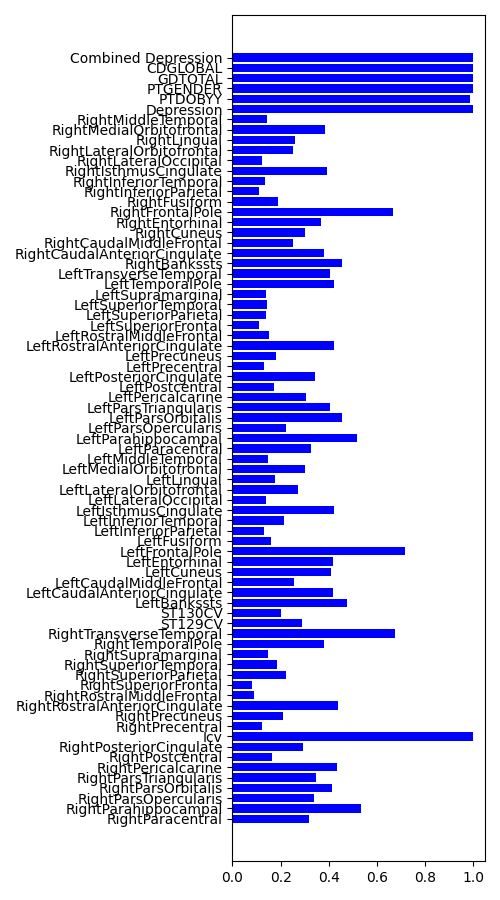
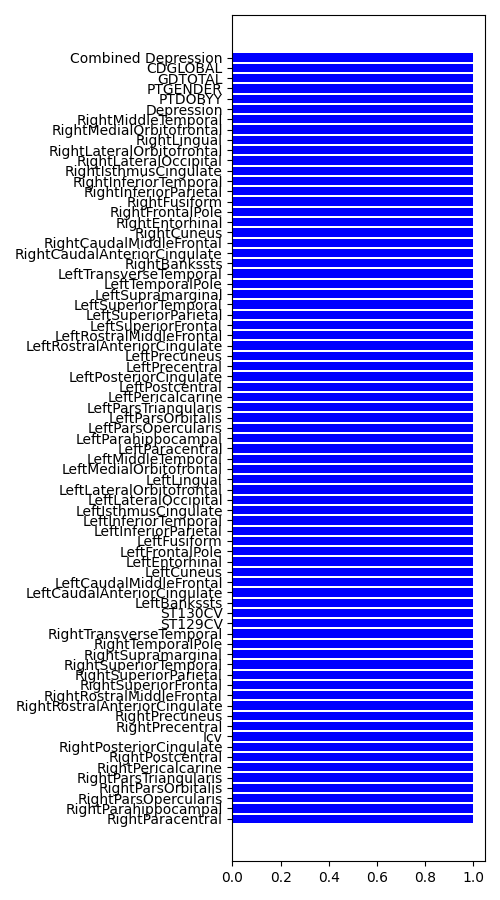
changes

Changed region(s): [[0.51, 0.1244, 0.96, 0.9333]]

diff --git a/evaluate/utility.py b/evaluate/utility.py
@@ -22,7 +22,8 @@ def evaluate_utility(table_type, data, synthetic_data, identifier_column, predic
 
     discrete_columns = []
     for col, meta in metadata.columns.items():
-        if ('sdtype' in meta and meta['sdtype'] == 'categorical') or (data[col].fillna(9999) % 1 == 0).all():
+        #if ('sdtype' in meta and meta['sdtype'] == 'categorical') or (data[col].fillna(9999) % 1 == 0).all():
+        if ('sdtype' in meta and meta['sdtype'] == 'categorical'):
             discrete_columns.append(col)
     data_columns = data.columns
 
@@ -33,6 +34,7 @@ def evaluate_utility(table_type, data, synthetic_data, identifier_column, predic
             similarity_score = StatisticSimilarity.compute(real_data=data[column], synthetic_data=synthetic_data[column], statistic='mean')
             similarity_scores.append(similarity_score)
 
+    """
     #== Correlation ==#
     #print()
     #print("[SynthOpt] calculating correlation scores (this may take a while)")
@@ -46,6 +48,22 @@ def evaluate_utility(table_type, data, synthetic_data, identifier_column, predic
             #print(f"(corr) real data correlation : {data[col1].corr(data[col2])} | synthetic data correlation : {synthetic_data[col1].corr(synthetic_data[col2])}")
             #print(correlation_score)
             correlation_scores.append(correlation_score)
+    """
+
+    #== Correlation ==#
+    print()
+    print("[SynthOpt] calculating correlation scores (this may take a while)")
+    correlation_scores = []
+    if not synthetic_data.columns[synthetic_data.nunique()==1].tolist():
+        column_pairs = list(combinations(data_columns, 2))
+        column_pairs = random.sample(column_pairs, 10)    # For testing!, takes random sample of column pairs to speed up time
+        for col1, col2 in column_pairs:
+            if col1 not in discrete_columns and col2 not in discrete_columns:
+                correlation_score = CorrelationSimilarity.compute(real_data=data[[col1,col2]], synthetic_data=synthetic_data[[col1,col2]])
+                correlation_scores.append(correlation_score)
+            else:
+                correlation_score = ContingencySimilarity.compute(real_data=data[[col1,col2]], synthetic_data=synthetic_data[[col1,col2]])
+                correlation_scores.append(correlation_score)
 
 
     # Calculate the Pearson correlation matrices for both datasets

diff --git a/evaluate/quality.py b/evaluate/quality.py
@@ -20,7 +20,9 @@ def evaluate_quality(table_type, data, synthetic_data, identifier_column):
 
     discrete_columns = []
     for col, meta in metadata.columns.items():
-        if ('sdtype' in meta and meta['sdtype'] == 'categorical') or (data[col].fillna(9999) % 1 == 0).all():
+        # second part of or is to detect integers but unecessary so removed as metrics are for categories
+        #if ('sdtype' in meta and meta['sdtype'] == 'categorical') or (data[col].fillna(9999) % 1 == 0).all():
+        if ('sdtype' in meta and meta['sdtype'] == 'categorical'):
             discrete_columns.append(col)
     data_columns = data.columns
 
